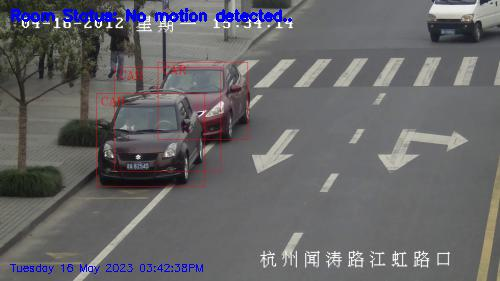
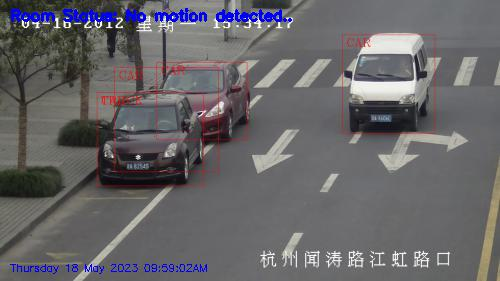
multiple cameras

diff --git a/main.html b/main.html
@@ -1,0 +1,29 @@
+<html lang="en">
+<head>
+    <meta charset="UTF-8">
+    <meta http-equiv="X-UA-Compatible" content="IE=edge">
+    <meta name="viewport" content="width=device-width, initial-scale=1.0">
+    <title>Main Window</title>
+    <style>
+        iframe{
+            width: 60vw;
+            margin: 40px;
+            height: 80vh;
+        }
+        body{
+            background-image: url('https://static.vecteezy.com/system/resources/previews/017/301/454/original/blackboard-and-elements-on-brown-wooden-background-chalkboard-for-copy-space-blank-blackboard-illustration-vector.jpg');
+        }
+    </style>
+</head>
+<body>
+    <h1 style="text-align: center; color: bisque; border: 2px solid white; border-radius: 4px;">Preview</h1>
+    <div class="container" style="
+        display: flex;
+        justify-content: center;
+        align-items: center;
+        ">
+        <iframe src="http://127.0.0.1:5000/" frameborder="0"></iframe>
+        <iframe src="http://127.0.0.1:5001/" frameborder="0"></iframe>
+    </div>
+</body>
+</html>

diff --git a/templates/index.html b/templates/index.html
@@ -39,13 +39,8 @@
     border-radius: 5px;
     width: 800px;
 
-    " src="{{ url_for('video_feed',camera=0) }}">
-    <img style="
-    border: 2px solid white;
-    border-radius: 5px;
-    width: 800px;
-
-    " src="{{ url_for('video_feed2',camera=0) }}">
+    " src="{{ url_for('video_feed') }}">
+    
    
     
   </div>

diff --git a/app2.py b/app2.py
@@ -7,7 +7,7 @@ from flask import Flask, render_template, Response
 # if os.environ.get('CAMERA'):
     # Camera = import_module('camera_' + os.environ['CAMERA']).Camera
 # print(os.environ['CAMERA'])
-Camera = import_module('camera_opencv').Camera
+Camera = import_module('camera_opencv2').Camera2
 # Camera2=import_module('camera_opencv').Camera
 # Camera2.set_video_source(0)
 
@@ -43,4 +43,4 @@ def video_feed():
 
 
 if __name__ == '__main__':
-    app.run(port=5001,host='0.0.0.0', threaded=True)
+    app.run(host='0.0.0.0', threaded=True)

diff --git a/camera_opencv2.py b/camera_opencv2.py
@@ -20,9 +20,8 @@ import cloudinary.uploader
 
 class Camera2(BaseCamera):
     
-    video_source = r'C:\Users\Sanskar\Desktop\hmara btp\test.mp4'
-    # video_source = 0
-
+    # video_source = r'C:\Users\Sanskar\Desktop\hmara btp\test.mp4'
+    video_source='http://192.168.1.25:4747/video'
     @staticmethod
     def set_video_source(source):
         Camera2.video_source = source
